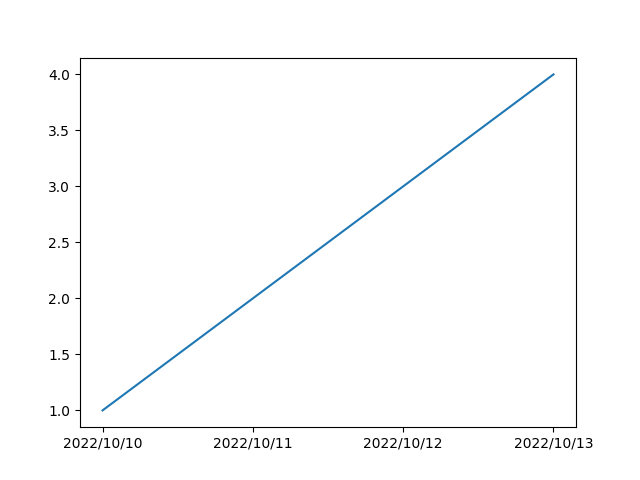
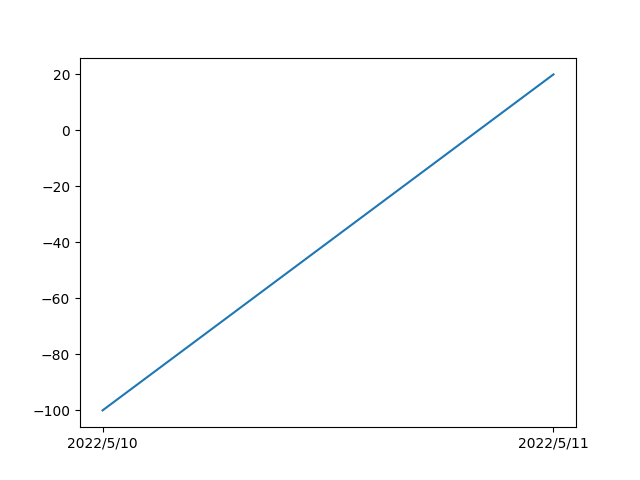
data weiter

diff --git a/plot.py b/plot.py
@@ -4,19 +4,17 @@ import json
 def make_plot(beginn, end):
     a = beginn
     b= end
+    x = []
+    y = []
 
-    with open(r'user\felix\felix.json', 'r') as plot_data:
+    with open(r'user\felix\data.json', 'r') as plot_data:
         cc = json.load(plot_data)
         for element in cc:
-            print(element)
-            for xx in cc[element]:
-                print(xx)
-                print(cc[element][xx])
+            x.append(cc[element]['date'])
+            y.append(cc[element]['amount'])
 
         # print(cc['User']['name'])
 
-    x = ['2022/10/10','2022/10/11','2022/10/12','2022/10/13']
-    y = [1,2,3,4]
 
     plt.plot(x, y)
     path = r'plots\first_plot.png'
